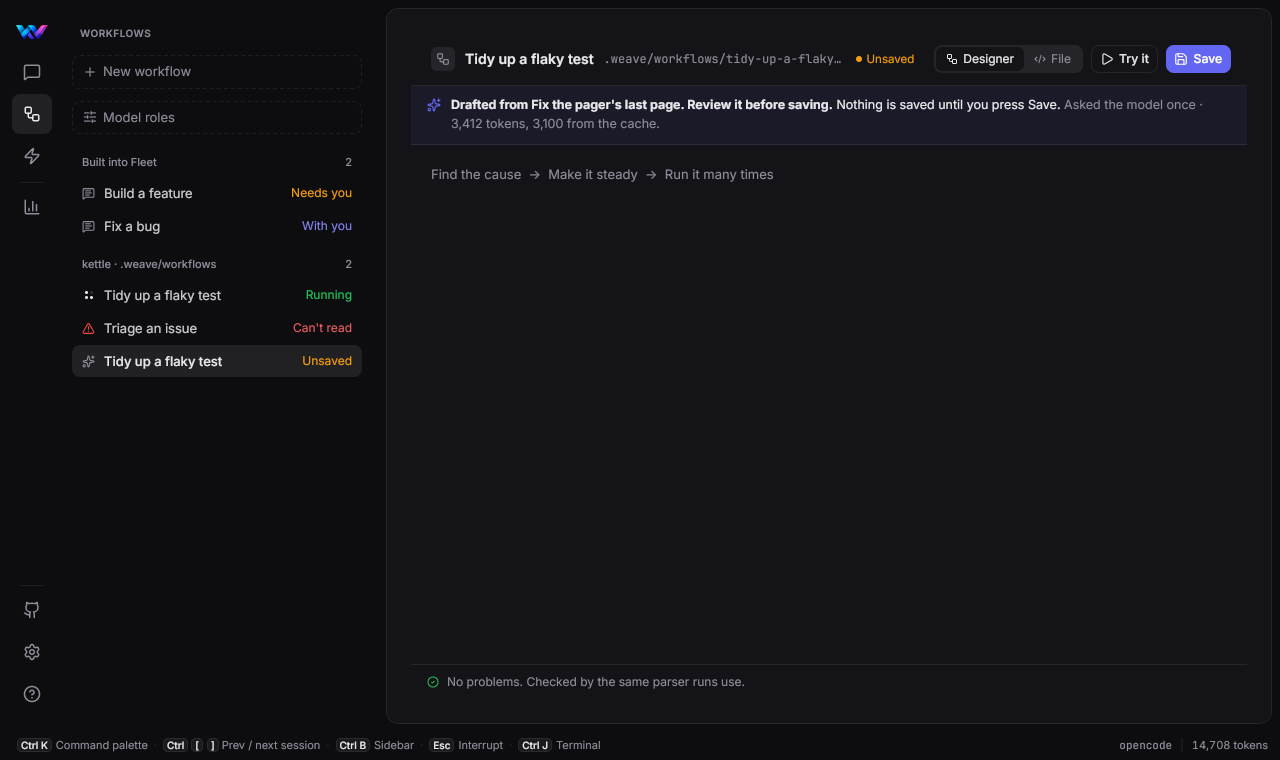
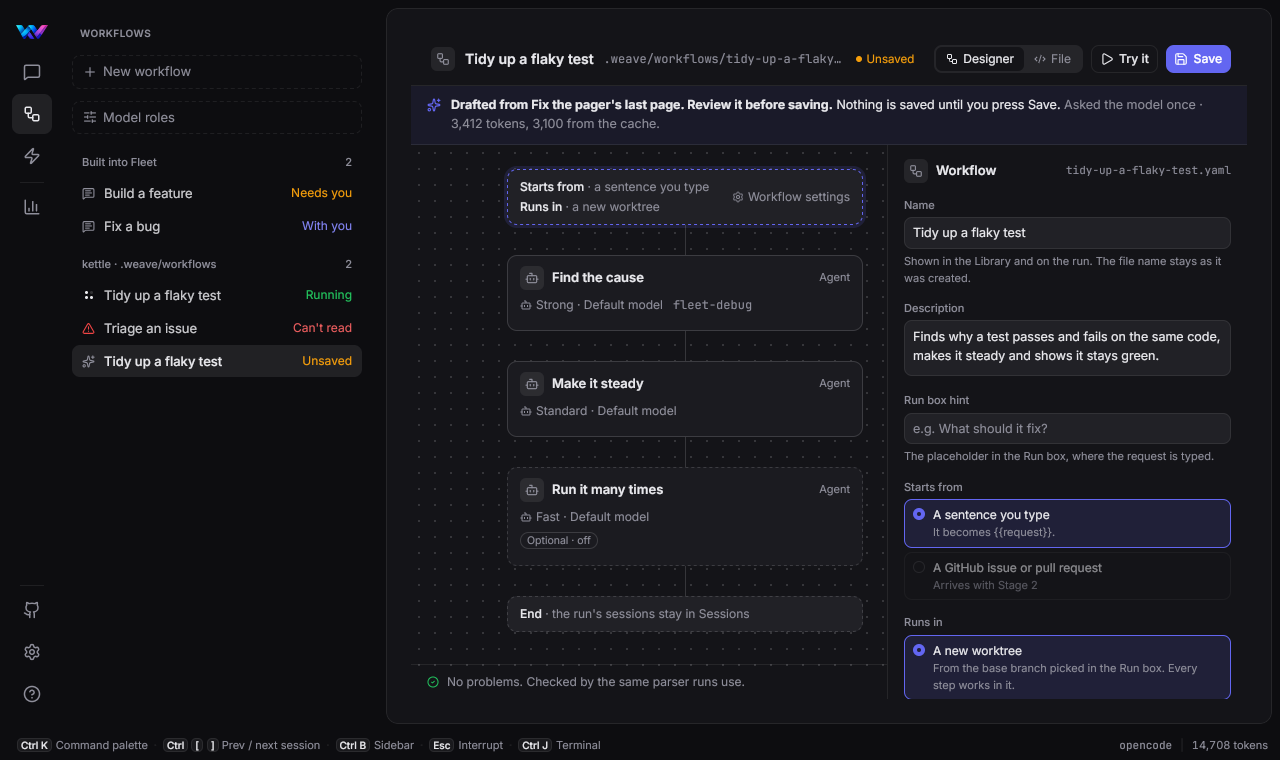
Piece S: wait for the first ask in the leave test; pictures beside Fleet's

diff --git a/src/tests_workflow_drafts.rs b/src/tests_workflow_drafts.rs
@@ -533,6 +533,8 @@ fn a_draft_over_unsaved_edits_asks_first_and_a_no_sends_nothing() {
     r.mount(false);
     r.rt.update(|s, _| s.workflow_draft_from_session("session-1", "Fix the login bug"));
     assert!(r.rt.state.ui.confirm.is_none(), "nothing unsaved, nothing asked");
+    let heard = r.fleet.heard_handle();
+    r.wait("the first ask to be heard", |_| heard("POST", FROM_SESSION) == 1);
     r.rt.update(|s, _| s.workflows_nav.draft_saved("repo:build-it-our-way"));
     r.rt.update(|s, _| s.workflows_nav.editor.edit_text("name: Edited\n"));
     r.rt.update(|s, _| s.workflow_draft_from_session("session-2", "Another session"));
